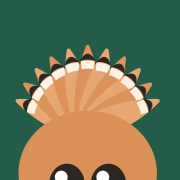
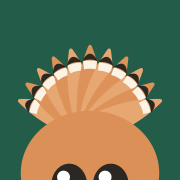
fix(brand): every mark sits dead centre, and its origin is derived not typed
The owner spotted the hoopoe sitting left in the app icon. It was: the window
onto it was 22 -19 78 78, centre x=61, while every part of the bird is
symmetric about x=60. One unit, 1.28% of the icon.

Measuring the rest found the same habit twice more, from the same cause -- an
origin typed by eye. The favicon put the ridge 1.94px right of centre in its
512 box; the sidebar mark's viewBox centred on 460 against a ridge centred on
455. Each invisible alone, and together no two marks agreed where the middle
was.

Every origin is now derived: PEEK_VIEW.x from the axis, the favicon's translate
from 256 - 455 * 0.38, peaks-mark's viewBox from PEAK_CENTRE. The two lab rooms
had retyped the hoopoe's window six times and now import it. Measured after: 0px
off at 180, 512 and 2048.

The test pins the thing centring depends on as well as the centring itself --
that the crest's angles are a mirrored set and the head is on the axis. Centring
a window on x=60 means nothing if the bird stops being symmetric.

diff --git a/src/app/lab/glass-edges/page.tsx b/src/app/lab/glass-edges/page.tsx
@@ -45,6 +45,7 @@ import type { ReactNode } from "react";
 import { PEAK_PLANES as P } from "@/components/layout/peaks-mark";
 import { Crest, Face } from "../hoopoe-marks/_parts";
 import { edgeLightFilter } from "@/lib/edge-light";
+import { PEEK_VIEW_BOX } from "@/lib/hoopoe-geometry";
 
 /**
  * The shipped filter, dropped into a live <svg>.
@@ -70,6 +71,12 @@ function RimDefs({
     />
   );
 }
+
+/* The hills' drawn extent is -98..1008, so their centre is 455. Multiplied by
+   the 0.38 the mark is drawn at, centring them in the 512 box puts the
+   translate at 256 - 455 * 0.38. It was a hand-typed 85, which is 1.9px right
+   of centre. */
+const HILLS_X = +(256 - 455 * 0.38).toFixed(2);
 
 const C = {
   sky: "#3F7CA6",
@@ -152,7 +159,7 @@ function Tile({
 
 function Hills() {
   return (
-    <g transform="translate(85 190) scale(0.38)">
+    <g transform={`translate(${HILLS_X} 190) scale(0.38)`}>
       <path d={P.silhouette} fill={C.sky} />
       <path d={P.middle} fill={C.cream} />
       <path d={P.rishi} fill={C.cinnamon} />
@@ -188,7 +195,7 @@ type Spec = { key: string; name: string; view: string; u: number; render: () => 
 
 const SPECS: Spec[] = [
   { key: "hills", name: "The hills", view: "0 0 512 512", u: 5, render: () => <Hills /> },
-  { key: "peek", name: "The hoopoe", view: "22 -19 78 78", u: 0.85, render: () => <Peek /> },
+  { key: "peek", name: "The hoopoe", view: PEEK_VIEW_BOX, u: 0.85, render: () => <Peek /> },
 ];
 
 type Build = { key: string; label: string; kind: "none" | "rim" | "tone"; w?: number; s?: number };
@@ -328,7 +335,7 @@ export default function GlassEdgesLab() {
           const fid = `f-crest-${c.key}`;
           return (
             <span className="cell" key={c.key}>
-              <Tile size={148} ground={C.ink} view="22 -19 78 78" filterId={fid}>
+              <Tile size={148} ground={C.ink} view={PEEK_VIEW_BOX} filterId={fid}>
                 <RimDefs id={fid} u={0.85} />
                 <Peek tipOut={c.tipOut} blunt={c.blunt} />
               </Tile>
@@ -341,7 +348,7 @@ export default function GlassEdgesLab() {
         <span className="tag">light off</span>
         {CRESTS.map((c) => (
           <span className="cell" key={c.key}>
-            <Tile size={148} ground={C.ink} view="22 -19 78 78">
+            <Tile size={148} ground={C.ink} view={PEEK_VIEW_BOX}>
               <Peek tipOut={c.tipOut} blunt={c.blunt} />
             </Tile>
             <em>{c.label}</em>

diff --git a/src/app/lab/hoopoe-marks/page.tsx b/src/app/lab/hoopoe-marks/page.tsx
@@ -13,6 +13,7 @@
 
 import type { ReactNode } from "react";
 import { Body, Crest, Face, G } from "./_parts";
+import { PEEK_VIEW_BOX } from "@/lib/hoopoe-geometry";
 
 function Tile({
   size,
@@ -79,7 +80,7 @@ const MARKS: Mark[] = [
   {
     key: "fan-bled",
     name: "The fan, run off the sides",
-    view: "24 -26 68 68",
+    view: "26 -26 68 68",
     railView: [26, -6, 68, 40],
     why: "The same fan with the outer feathers leaving the tile. Everything comes out about a third bigger, which is the only thing that ever helps at 16px, and the cut edges make the mark feel like a window onto something larger rather than a badge sitting in the middle of a square.",
     art: <Crest n={13} spread={76} len={1.32} w={1.02} taper={0.1} />,
@@ -90,7 +91,7 @@ const MARKS: Mark[] = [
   {
     key: "peek",
     name: "Peeking",
-    view: "22 -19 78 78",
+    view: PEEK_VIEW_BOX,
     railView: [24, -6, 72, 62],
     why: "The one you spotted by accident. The head comes up from the bottom edge, the eyes are cut by it, and the fan does the rest. It is the only mark here with any suspense in it, and the cut is doing the work: a whole face is a picture, two thirds of a face looking at you is a character.",
     art: (
@@ -333,7 +334,7 @@ export default function HoopoeMarksLab() {
           <span className="tip" key={tipOut}>
             <span className="sizes">
               {[132, 64, 40, 26].map((n) => (
-                <Tile size={n} ground={G.ink} view="22 -19 78 78" key={n}>
+                <Tile size={n} ground={G.ink} view={PEEK_VIEW_BOX} key={n}>
                   <Crest n={11} spread={68} len={1.18} taper={0.08} tipOut={tipOut} blunt={0.11} />
                   <Face eyeS={1.12} billL={0.9} />
                 </Tile>
@@ -359,7 +360,7 @@ export default function HoopoeMarksLab() {
           <span className="tip" key={blunt}>
             <span className="sizes">
               {[132, 64, 40, 26].map((n) => (
-                <Tile size={n} ground={G.ink} view="22 -19 78 78" key={n}>
+                <Tile size={n} ground={G.ink} view={PEEK_VIEW_BOX} key={n}>
                   <Crest n={11} spread={68} len={1.18} taper={0.08} tipOut={0.105} blunt={blunt} />
                   <Face eyeS={1.12} billL={0.9} />
                 </Tile>

diff --git a/src/lib/hoopoe-geometry.ts b/src/lib/hoopoe-geometry.ts
@@ -312,8 +312,19 @@ export function bodyPrims({ flat }: { flat?: string } = {}): Prim[] {
 
 /* ---- the shipped mark ---------------------------------------------- */
 
-/** The window the peeking mark was chosen in, in the rig's 120 space. */
-export const PEEK_VIEW = { x: 22, y: -19, size: 78 };
+/** The x every part of the bird is symmetric about: the crest's pivot, the
+    head's centre, the bill, and the two eyes at 60 +/- 9. Only the catchlights
+    break it, and they are interior white dots on a dark eye, so they move no
+    edge. Any window onto this mark must be centred here or the bird sits off
+    to one side -- which it did, by a whole unit, until the owner spotted it. */
+export const PEEK_AXIS = 60;
+
+/** The window the peeking mark was chosen in, in the rig's 120 space.
+    x is PEEK_AXIS - size / 2, never a hand-typed number. */
+export const PEEK_VIEW = { x: PEEK_AXIS - 78 / 2, y: -19, size: 78 };
+
+/** The same window as a viewBox string, so no room retypes it and drifts. */
+export const PEEK_VIEW_BOX = `${PEEK_VIEW.x} ${PEEK_VIEW.y} ${PEEK_VIEW.size} ${PEEK_VIEW.size}`;
 
 /** The two crest settings picked in /lab/hoopoe-marks: a longer cinnamon point
     so it survives 26px, and its tip rounded so the fan reads soft. */

diff --git a/src/components/layout/peaks-mark.tsx b/src/components/layout/peaks-mark.tsx
@@ -24,6 +24,15 @@ const WORDMARK_FONT_SIZE = 18;
 
 const VIEWBOX_WIDTH = 1140;
 const VIEWBOX_HEIGHT = 350;
+
+/* The ridge is drawn from -98 to 1008, so its centre is 455. The viewBox's x
+   is derived from that rather than typed: it used to read -110, which put the
+   window's centre at 460 and hung the mark five units left of true. That is
+   0.44% of its width -- invisible on its own and not invisible once the same
+   habit had also moved the favicon and the app icon. */
+export const PEAK_SPAN = { left: -98, right: 1008 } as const;
+export const PEAK_CENTRE = (PEAK_SPAN.left + PEAK_SPAN.right) / 2;
+const VIEWBOX_X = PEAK_CENTRE - VIEWBOX_WIDTH / 2;
 const RIDGE =
   "M-70 348 " +
   "C6 346 82 248 190 198 " +
@@ -99,7 +108,7 @@ export function PeaksMark({
     <svg
       width={w}
       height={size}
-      viewBox="-110 40 1140 350"
+      viewBox={`${VIEWBOX_X} 40 ${VIEWBOX_WIDTH} ${VIEWBOX_HEIGHT}`}
       fill="none"
       className={className}
       aria-hidden

diff --git a/progress.md b/progress.md
@@ -79,6 +79,45 @@ describing any real slot the moment a photograph's share of its row became its r
 row's. `/lab/crop`'s "several at once" mode now renders the shipped components beside what
 each surface did before, so the change can be looked at rather than described.
 
+## 2026-08-27 — every mark is centred now, and none of them were
+
+The owner, looking at the app icon: "the bird isn't perfectly centred is it?" He was right,
+and measuring the rest found the same habit in two more places. All three from one cause: a
+window's origin typed by eye instead of derived from the art it frames.
+
+| mark | was | off by |
+|---|---|---|
+| app icon | window `22 -19 78 78`, centre x=61, bird symmetric about x=60 | 1 unit, **1.28%** |
+| favicon | `translate(85) scale(0.38)`, ridge centre 455 lands at 257.94 in a 512 box | **1.94px, 0.38%** |
+| sidebar mark | `viewBox="-110 40 1140 350"`, centre 460 against a ridge centred on 455 | 5 units, **0.44%** |
+
+Each is invisible alone, which is why all three survived. Together they meant no two marks
+agreed on where the middle was. The ridge's drawn extent was verified rather than read off
+the path: rendering the shipped favicon at 4096px and inverting its transform gives
+-98.03..1008.22, the hundredths being antialiasing past the path's own endpoints of -98 and
+1008, so the centre is 455.
+
+Every origin is now derived. `PEEK_VIEW.x` is `PEEK_AXIS - size / 2`; the favicon's translate
+is `256 - 455 * 0.38` with the arithmetic written into the file; `peaks-mark` computes its
+viewBox x from `PEAK_CENTRE - VIEWBOX_WIDTH / 2`. The two lab rooms had retyped the hoopoe's
+window six times between them and now import `PEEK_VIEW_BOX`, which is how one of them was
+already carrying a different number. Measured after: 0px off on all three, at 180, 512 and
+2048px.
+
+`src/lib/mark-centring.test.mjs` pins it, including the thing the centring depends ON -- that
+the crest's feather angles are a mirrored set and the head sits on the axis. If the bird ever
+stops being symmetric, centring a window on x=60 would be centring on nothing, and the test
+says so before the icon ships. The angles are compared with a tolerance, not deepEqual: they
+come out of `(i / (n - 1)) * 2 - 1` and mirror to about 1e-14.
+
+One thing this cost an hour of: `npm run visual` failed on feed desktop, and the diff looked
+like a real regression -- the masked content band ended three-quarters down with page
+background below it. It was not. Re-shooting it passed and moved no baseline. The feed
+photographs a live database, and while the band is masked, its HEIGHT is not: fewer posts, or
+one shorter card, and the pixels below the mask differ. OPERATIONS §1 warns that a red run on
+those four is real; this is the case where it is not, and the tell is that a re-run is green
+with no baseline written.
+
 ## 2026-08-27 — CI was red on main for a day, and the gate it named was fine
 
 `audit-status --fail-on-open=critical,high` had been failing every push since the morning,
